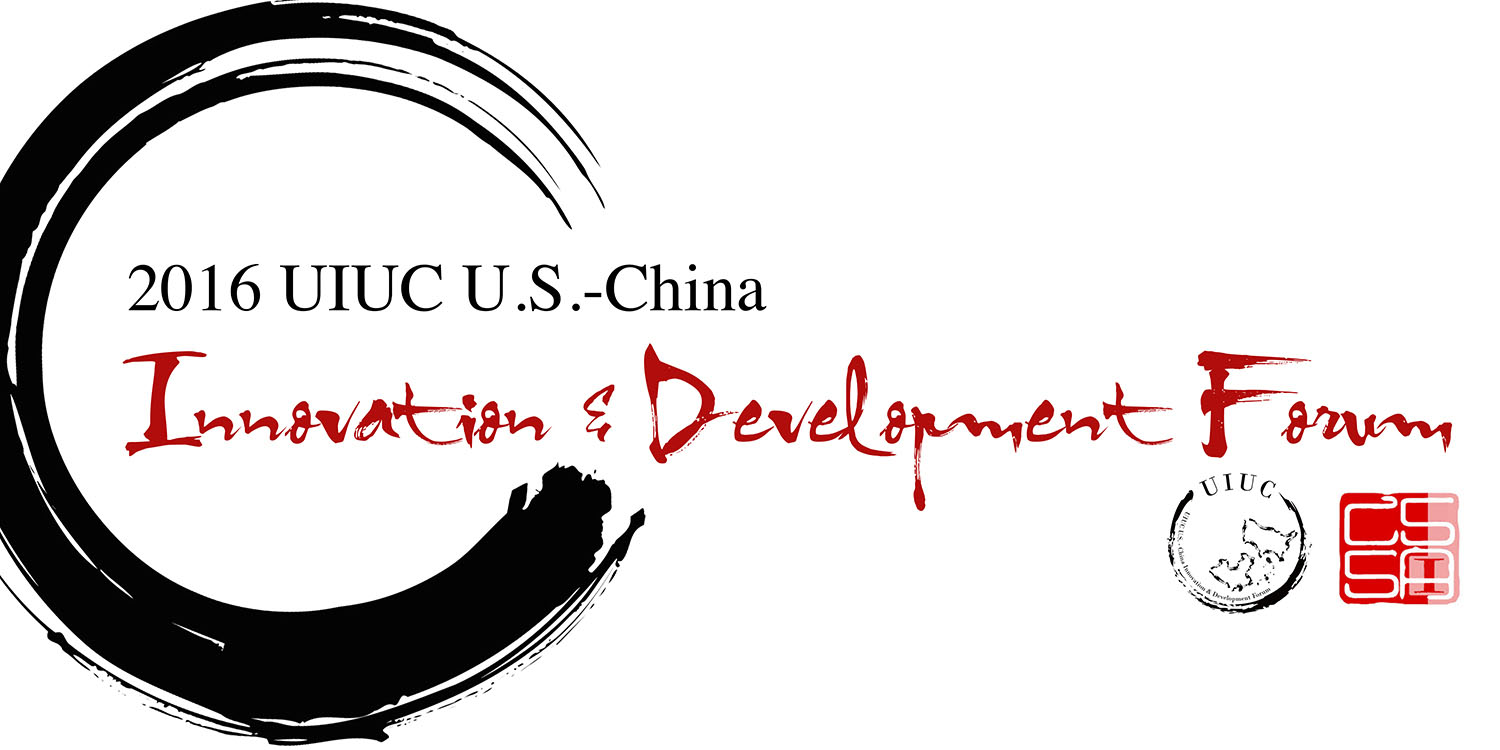
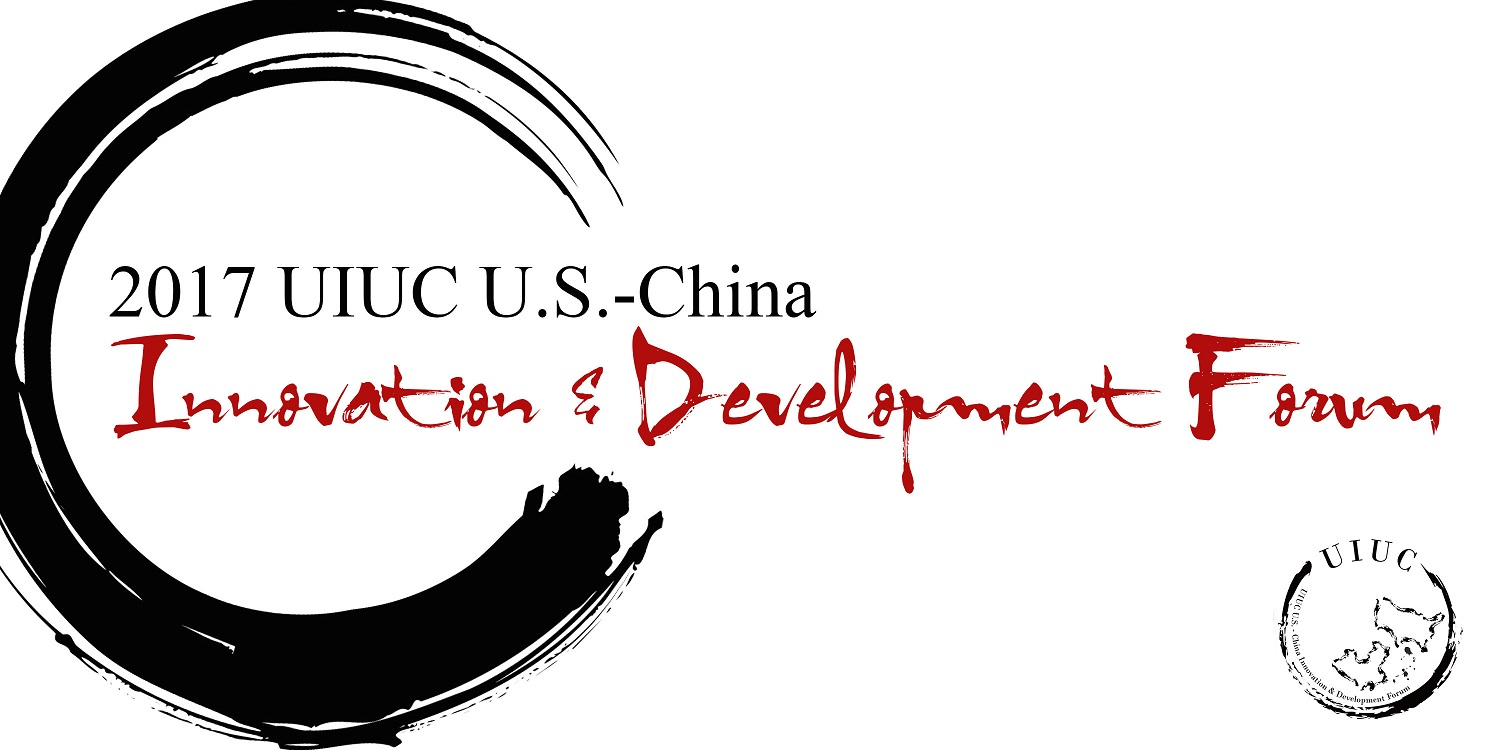
1

diff --git a/public/about_forum.html b/public/about_forum.html
@@ -90,7 +90,7 @@
                                 <p>On the Cutting-Edge of Innovation</p>
                             </header>
 
-                            <span class="image featured"><img width="100%" height="100%" src="images/logo.jpg" alt="" /></span>
+                            <span class="image featured"><img width=800px height=400px src="images/banner.jpg" alt="" /></span>
 
                             <p>The UIUC Innovation and Development Forum focuses on the cutting-edge issues of innovation, technological development and inspired industrial production.</p>
                                 <p>In 2014, the President’s council of advisors on Science and Technology published the Report to the president Accelerating U.S. Advanced Manufacturing 2.0, which addressed securing the nation’s competitive advantage in transformative emerging technologies. In China, President Xi Jinping highlighted the importance of strengthening “structural reform of the supply front” to increase the quality and efficiency of supply system and provide a growth impetus for sustainable economic development in China. Two of the most impactful countries, U.S. and China, both rely their strategy on technological innovation.</p>
